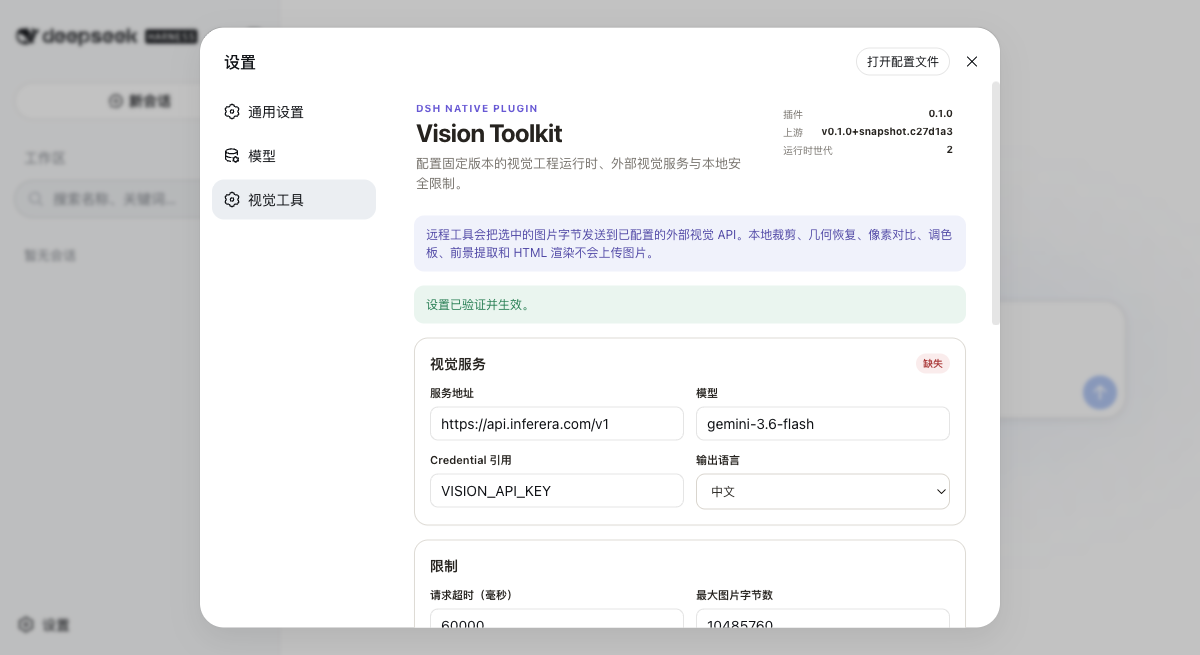
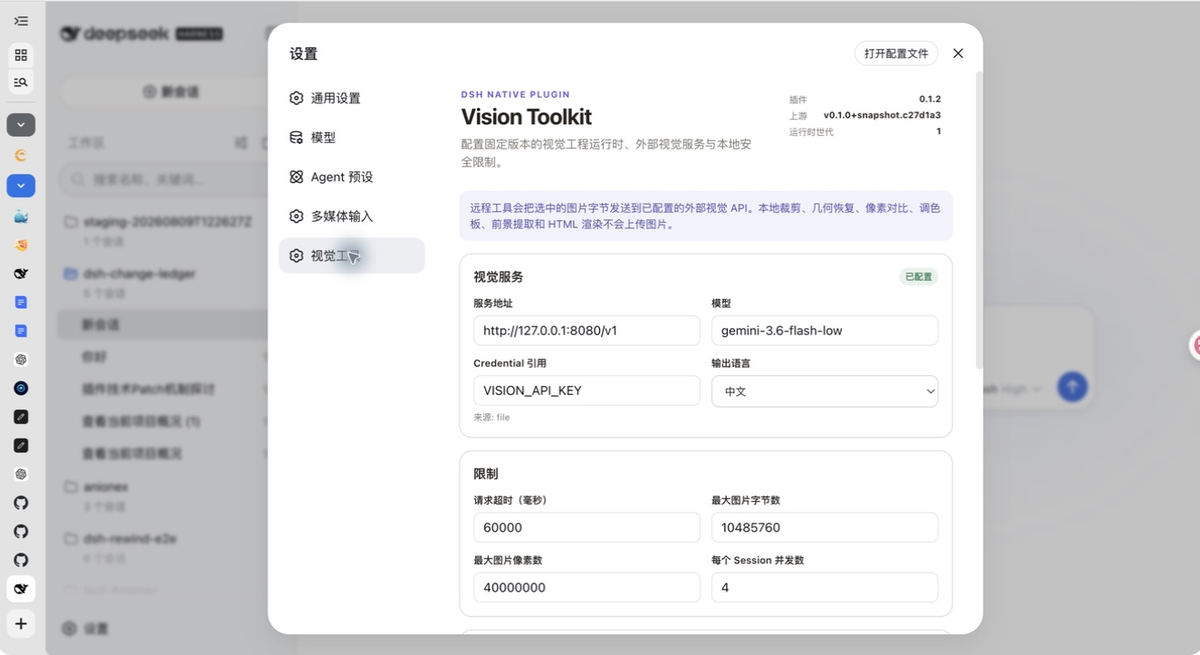
release: prepare Vision Toolkit v0.1.2

diff --git a/README.md b/README.md
@@ -2,7 +2,7 @@
 
 # DSH Vision Toolkit
 
-[![Release v0.1.1](https://img.shields.io/badge/release-v0.1.1-5B4CF0?style=flat-square)](https://github.com/dsh-external/dsh-vision-toolkit/releases/tag/v0.1.1)
+[![Release v0.1.2](https://img.shields.io/badge/release-v0.1.2-5B4CF0?style=flat-square)](https://github.com/dsh-external/dsh-vision-toolkit/releases/tag/v0.1.2)
 [![Verified: 134 tests](https://img.shields.io/badge/verified-134%20tests-2EA44F?style=flat-square)](tests)
 [![License: MIT](https://img.shields.io/badge/license-MIT-0B7285?style=flat-square)](LICENSE)
 [![Node.js](https://img.shields.io/badge/Node.js-%5E22.19%20%7C%20%3E%3D24-339933?style=flat-square&logo=nodedotjs&logoColor=white)](package.json)
@@ -358,7 +358,7 @@ Update the upstream snapshot only through `pnpm run upstream:sync -- <checkout>`
 
 ## Project status and scope
 
-Version `0.1.0` is the first private GitHub release. P0 and P1 are product commitments in this package. P2 is a design threshold: no stable `ctx.visionToolkit` service, capability-discovery API, or provider ecosystem is published until at least one independent plugin consumes the internal capability shape. Web upload, drag-and-drop, camera/video/audio/document ingestion, interactive box editing, automatic GUI clicking, service clusters, model routing, model voting, and cross-session vision caches remain outside the current product.
+Version `0.1.2` is the current private GitHub release. P0 and P1 are product commitments in this package. P2 is a design threshold: no stable `ctx.visionToolkit` service, capability-discovery API, or provider ecosystem is published until at least one independent plugin consumes the internal capability shape. Web upload, drag-and-drop, camera/video/audio/document ingestion, interactive box editing, automatic GUI clicking, service clusters, model routing, model voting, and cross-session vision caches remain outside the current product.
 
 ## Community and About
 

diff --git a/README.zh.md b/README.zh.md
@@ -2,7 +2,7 @@
 
 # DSH Vision Toolkit
 
-[![Release v0.1.1](https://img.shields.io/badge/release-v0.1.1-5B4CF0?style=flat-square)](https://github.com/dsh-external/dsh-vision-toolkit/releases/tag/v0.1.1)
+[![Release v0.1.2](https://img.shields.io/badge/release-v0.1.2-5B4CF0?style=flat-square)](https://github.com/dsh-external/dsh-vision-toolkit/releases/tag/v0.1.2)
 [![Verified: 134 tests](https://img.shields.io/badge/verified-134%20tests-2EA44F?style=flat-square)](tests)
 [![License: MIT](https://img.shields.io/badge/license-MIT-0B7285?style=flat-square)](LICENSE)
 [![Node.js](https://img.shields.io/badge/Node.js-%5E22.19%20%7C%20%3E%3D24-339933?style=flat-square&logo=nodedotjs&logoColor=white)](package.json)
@@ -358,7 +358,7 @@ pnpm pack --dry-run
 
 ## 项目状态与范围
 
-版本 `0.1.0` 是首个 GitHub 私有发布。P0 和 P1 是本包的产品承诺。P2 是设计门槛：至少一个独立插件消费内部能力形态前，不发布稳定 `ctx.visionToolkit` 服务、能力发现 API 或提供方生态。Web 上传、拖拽、摄像头/视频/音频/文档输入、交互式标注框编辑、GUI 自动点击、远程服务集群、模型路由、模型投票和跨会话视觉缓存不属于当前产品范围。
+版本 `0.1.2` 是当前 GitHub 私有发布。P0 和 P1 是本包的产品承诺。P2 是设计门槛：至少一个独立插件消费内部能力形态前，不发布稳定 `ctx.visionToolkit` 服务、能力发现 API 或提供方生态。Web 上传、拖拽、摄像头/视频/音频/文档输入、交互式标注框编辑、GUI 自动点击、远程服务集群、模型路由、模型投票和跨会话视觉缓存不属于当前产品范围。
 
 ## 社区与关于
 

diff --git a/CHANGELOG.md b/CHANGELOG.md
@@ -4,6 +4,15 @@ All notable user-facing changes to DSH Vision Toolkit are documented in this fil
 
 ## [Unreleased]
 
+## [0.1.2] - 2026-08-11
+
+### Changed
+
+- Repositioned the README, landing page, hero, social preview, package metadata, and About copy around the product's exact role as the native DeepSeek Harness integration for `agent-vision-toolkit`.
+- Added direct, prominent links to the upstream repository and first-party project website.
+- Added optimized official upstream reference images for infographic restoration, sketch-to-UI restoration, image Q&A, and screenshot-guided debugging, with exact commit provenance and explicit separation from DSH-native proof.
+- Set the package homepage to the first-party `agent-vision-toolkit` website and expanded discovery keywords for text-only agents, Agent Skills, and vision-language models.
+
 ## [0.1.1] - 2026-08-11
 
 ### Changed
@@ -39,6 +48,7 @@ All notable user-facing changes to DSH Vision Toolkit are documented in this fil
 - Runtime teardown cancels in-flight operations before removing Agent-scoped tools, the activation bootstrap, and the Skill.
 - The Web client is published through the current nested `dsh.client` manifest and loader-compatible built artifact required by DSH snapshot0810.
 
-[Unreleased]: https://github.com/dsh-external/dsh-vision-toolkit/compare/v0.1.1...HEAD
+[Unreleased]: https://github.com/dsh-external/dsh-vision-toolkit/compare/v0.1.2...HEAD
+[0.1.2]: https://github.com/dsh-external/dsh-vision-toolkit/compare/v0.1.1...v0.1.2
 [0.1.1]: https://github.com/dsh-external/dsh-vision-toolkit/compare/v0.1.0...v0.1.1
 [0.1.0]: https://github.com/dsh-external/dsh-vision-toolkit/releases/tag/v0.1.0
